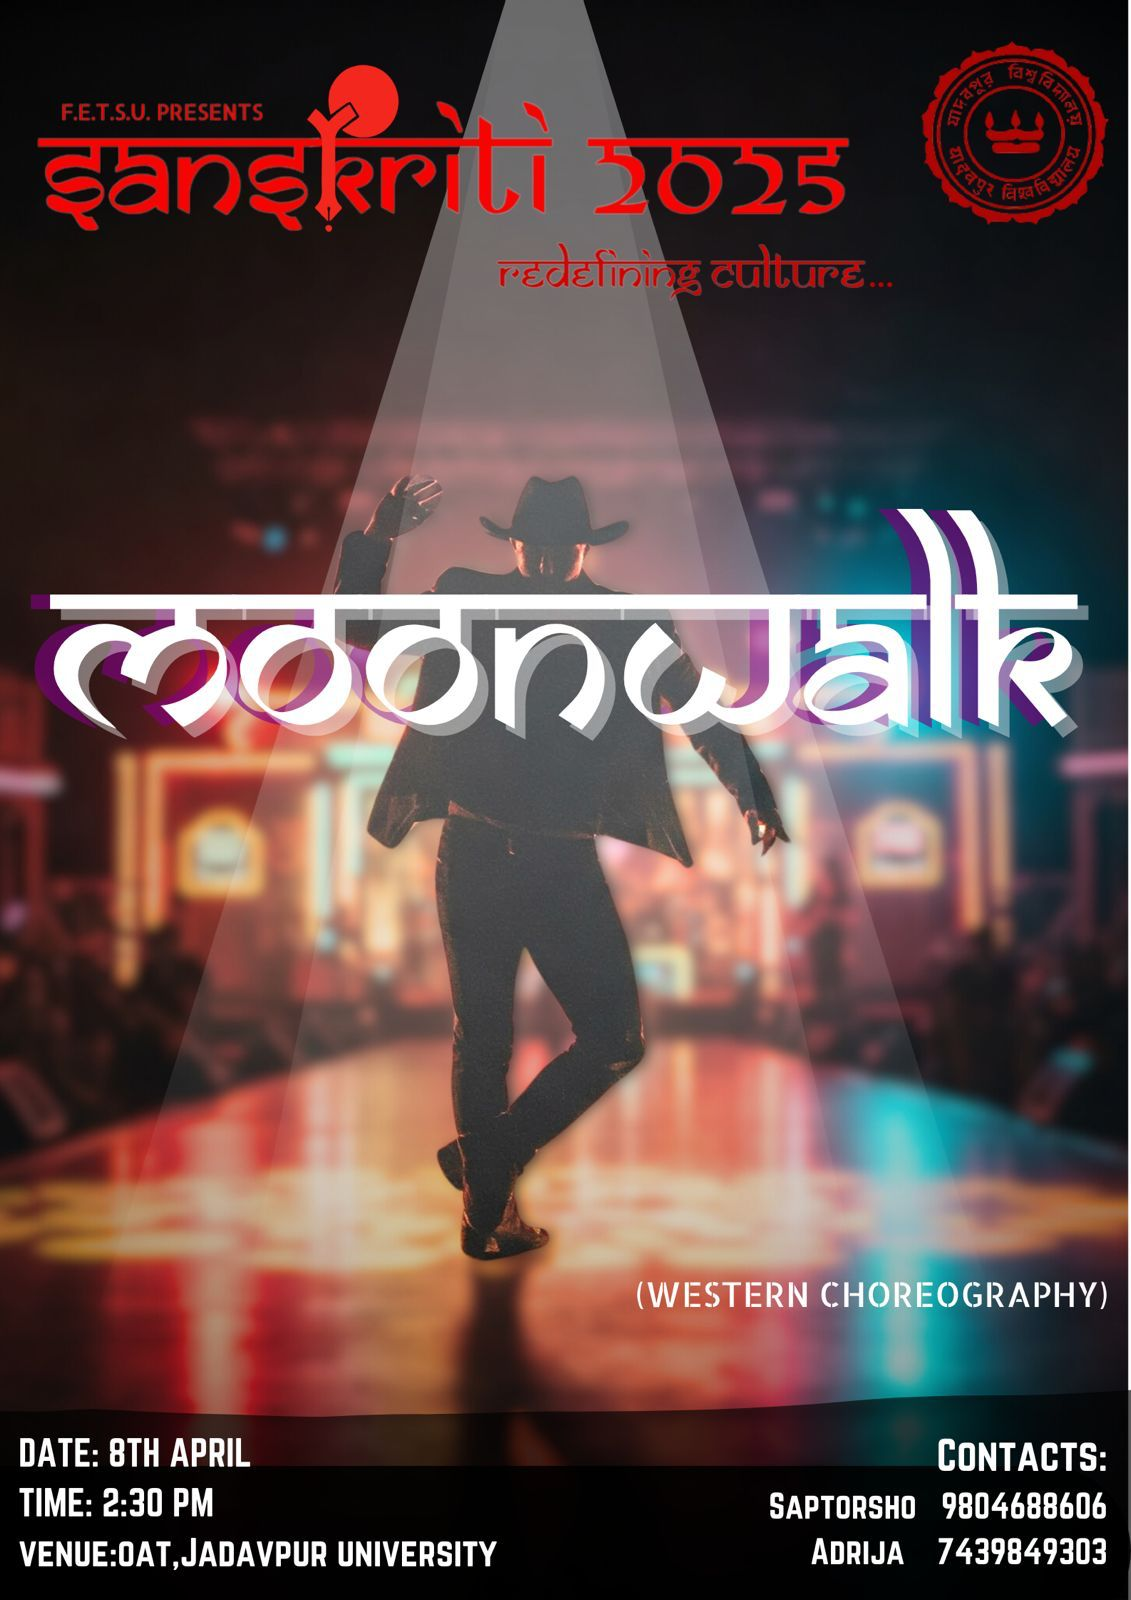
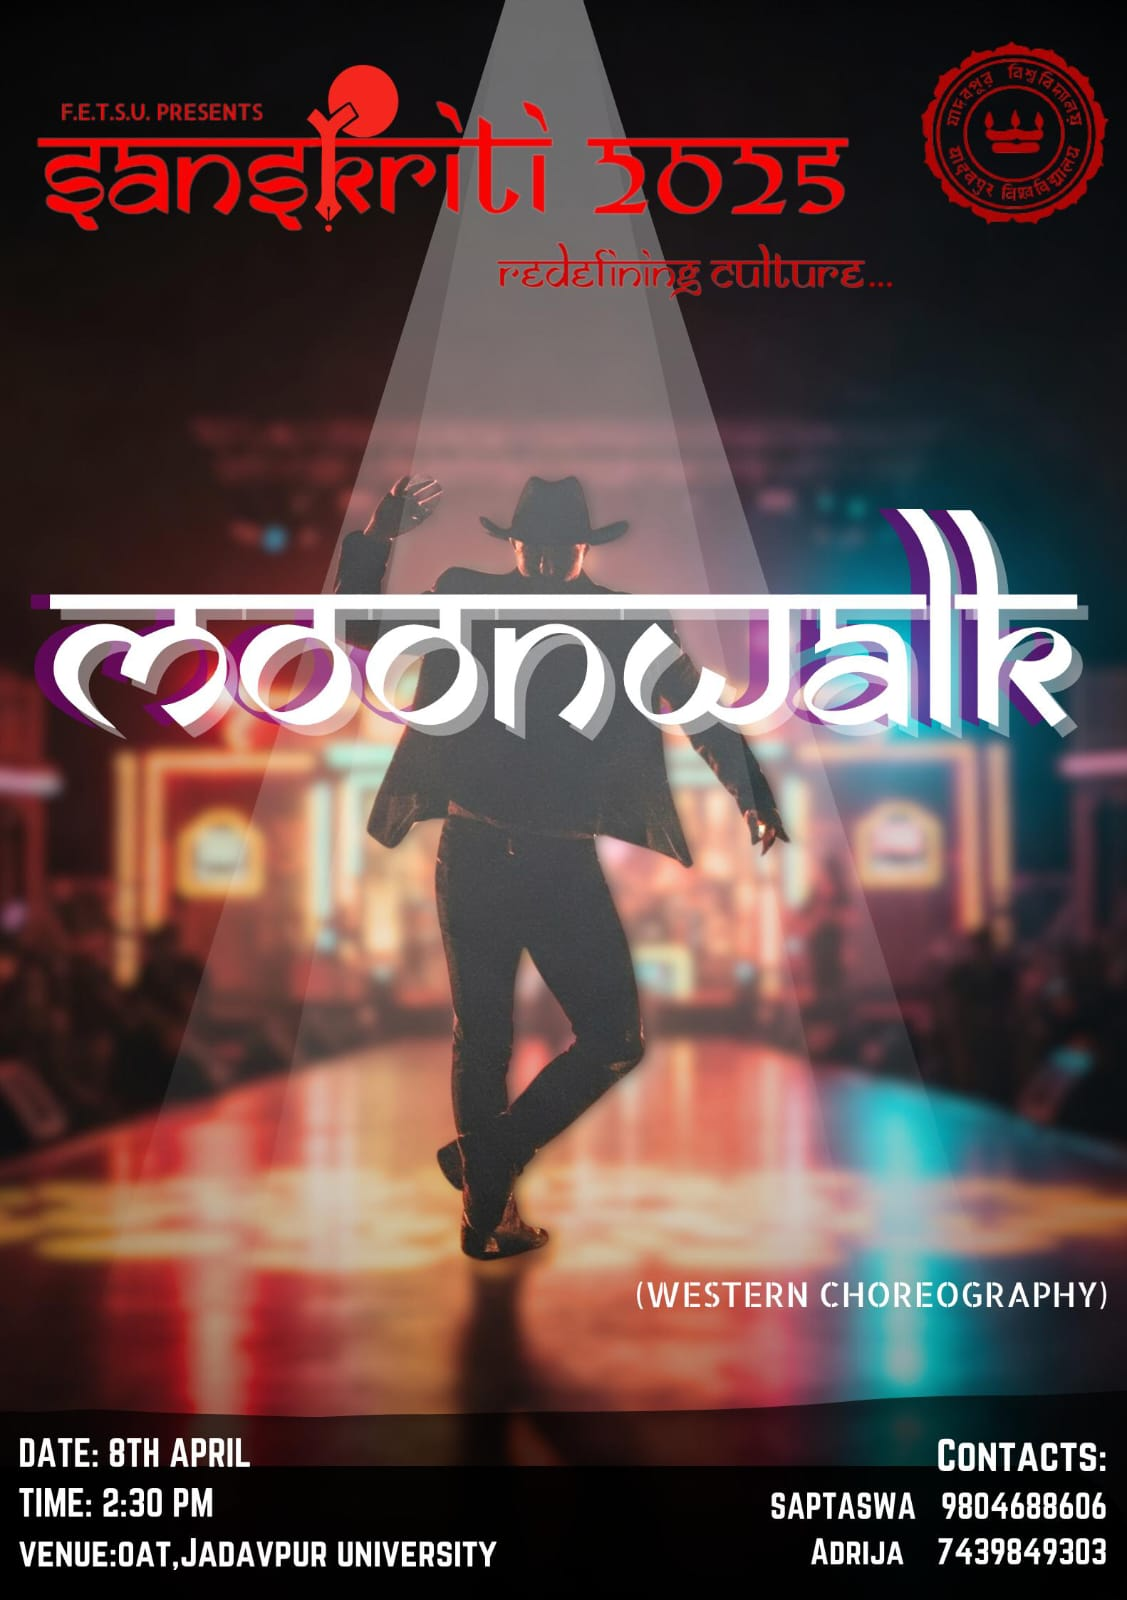
saptaswa name changes

diff --git a/src/data/categoryList.ts b/src/data/categoryList.ts
@@ -478,7 +478,7 @@ const categoriesList = {
             "https://docs.google.com/forms/d/e/1FAIpQLSdES2KYqbG35a3hlpBHalDxzKAEX8fKRdag2gCWCJf4JpphuA/viewform",
           studentCoordinators: [
             {
-              name: "Saptorsho Basu",
+              name: "Saptaswa Basu",
               phone: "9804688606",
             },
             {
